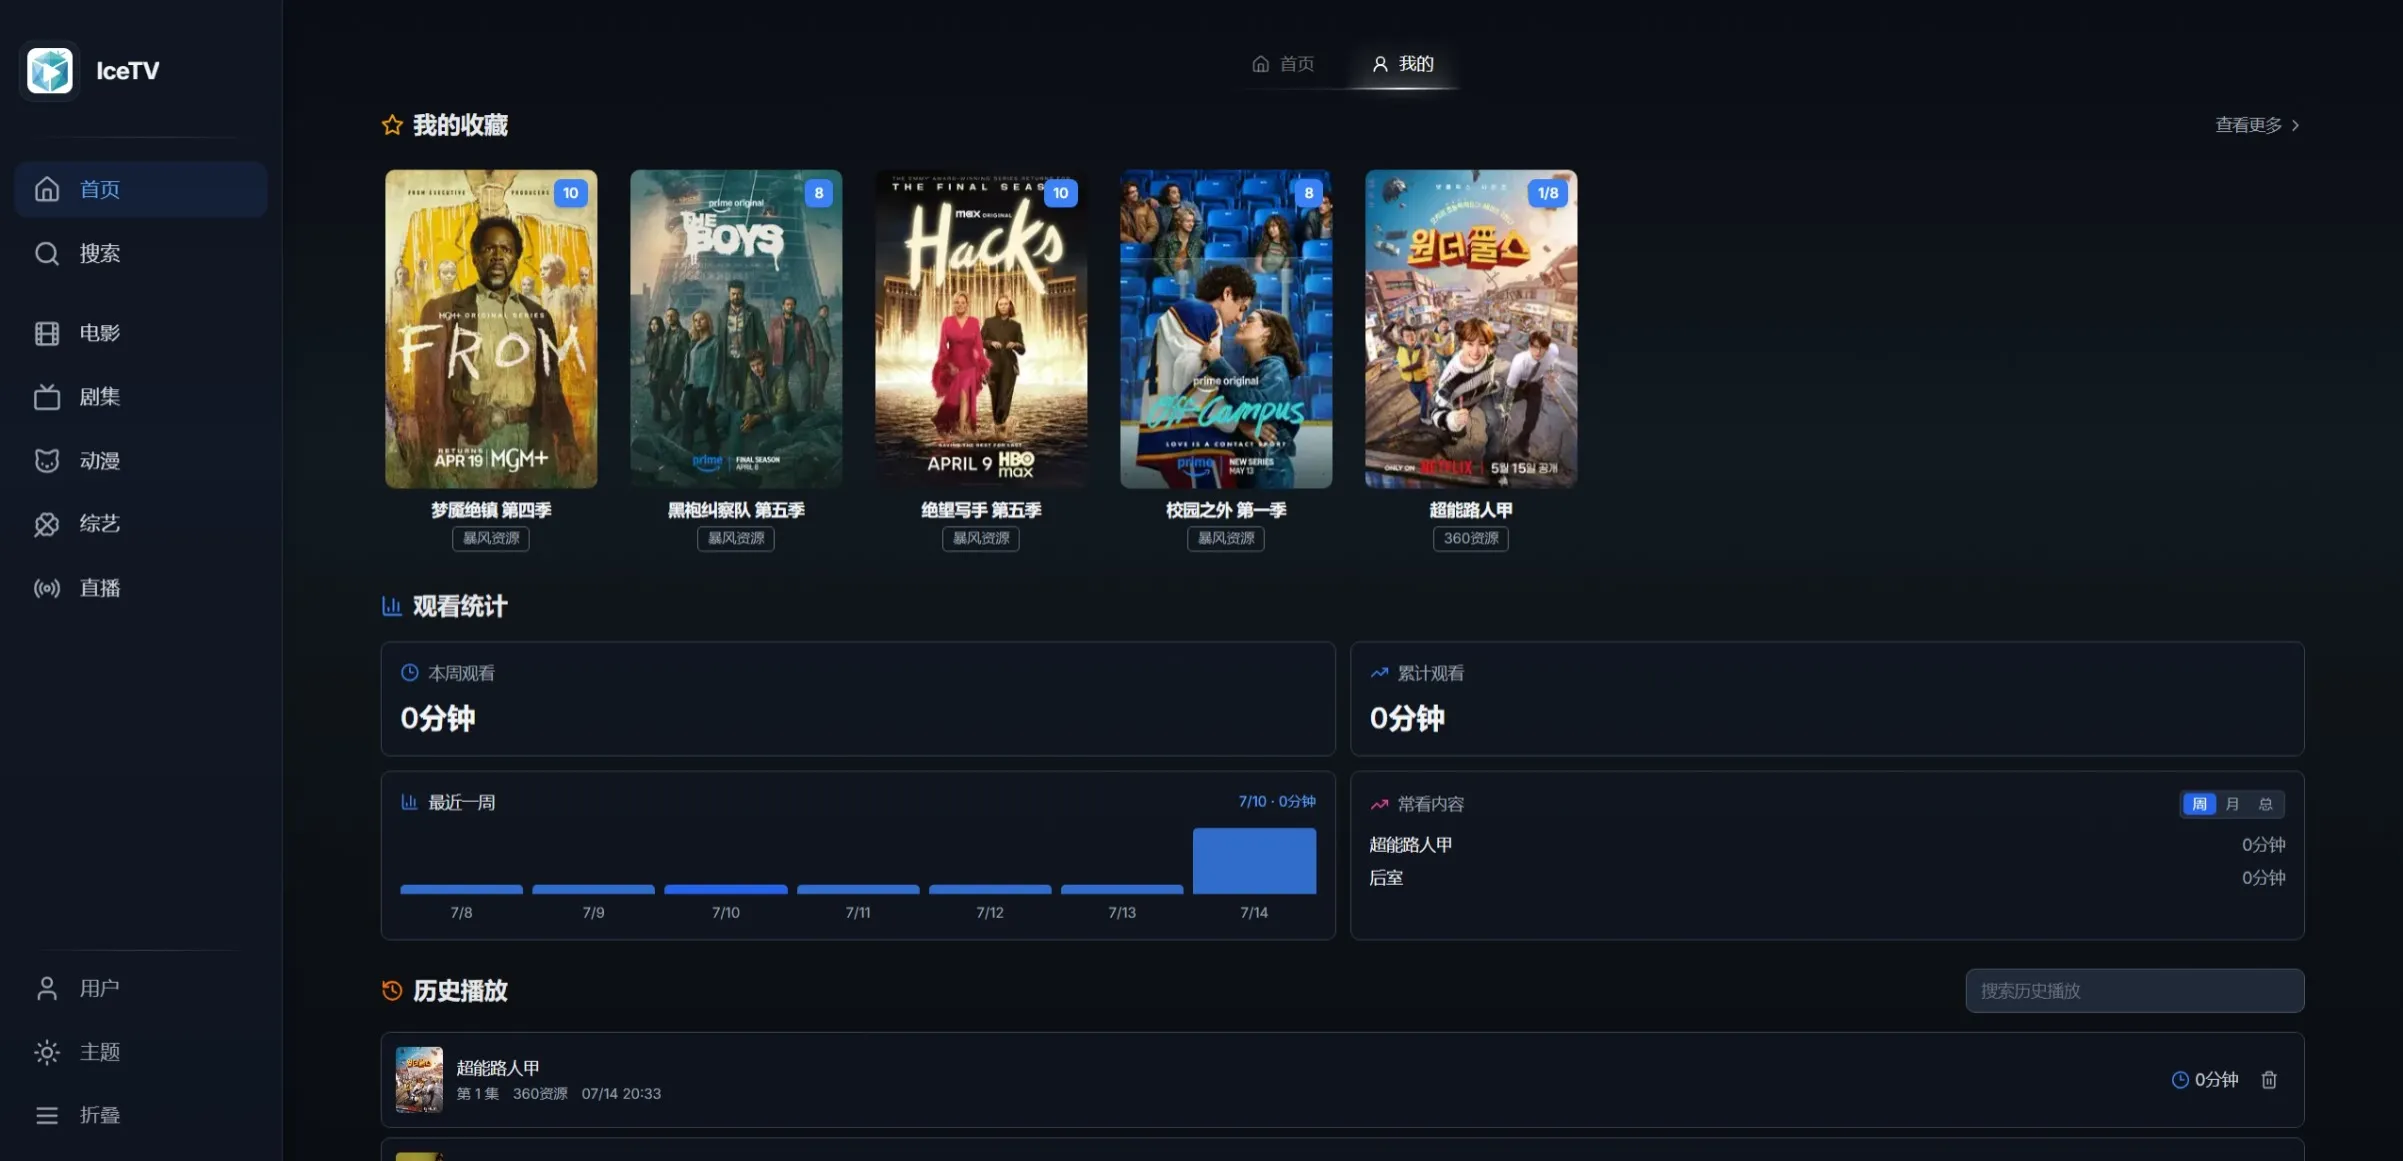
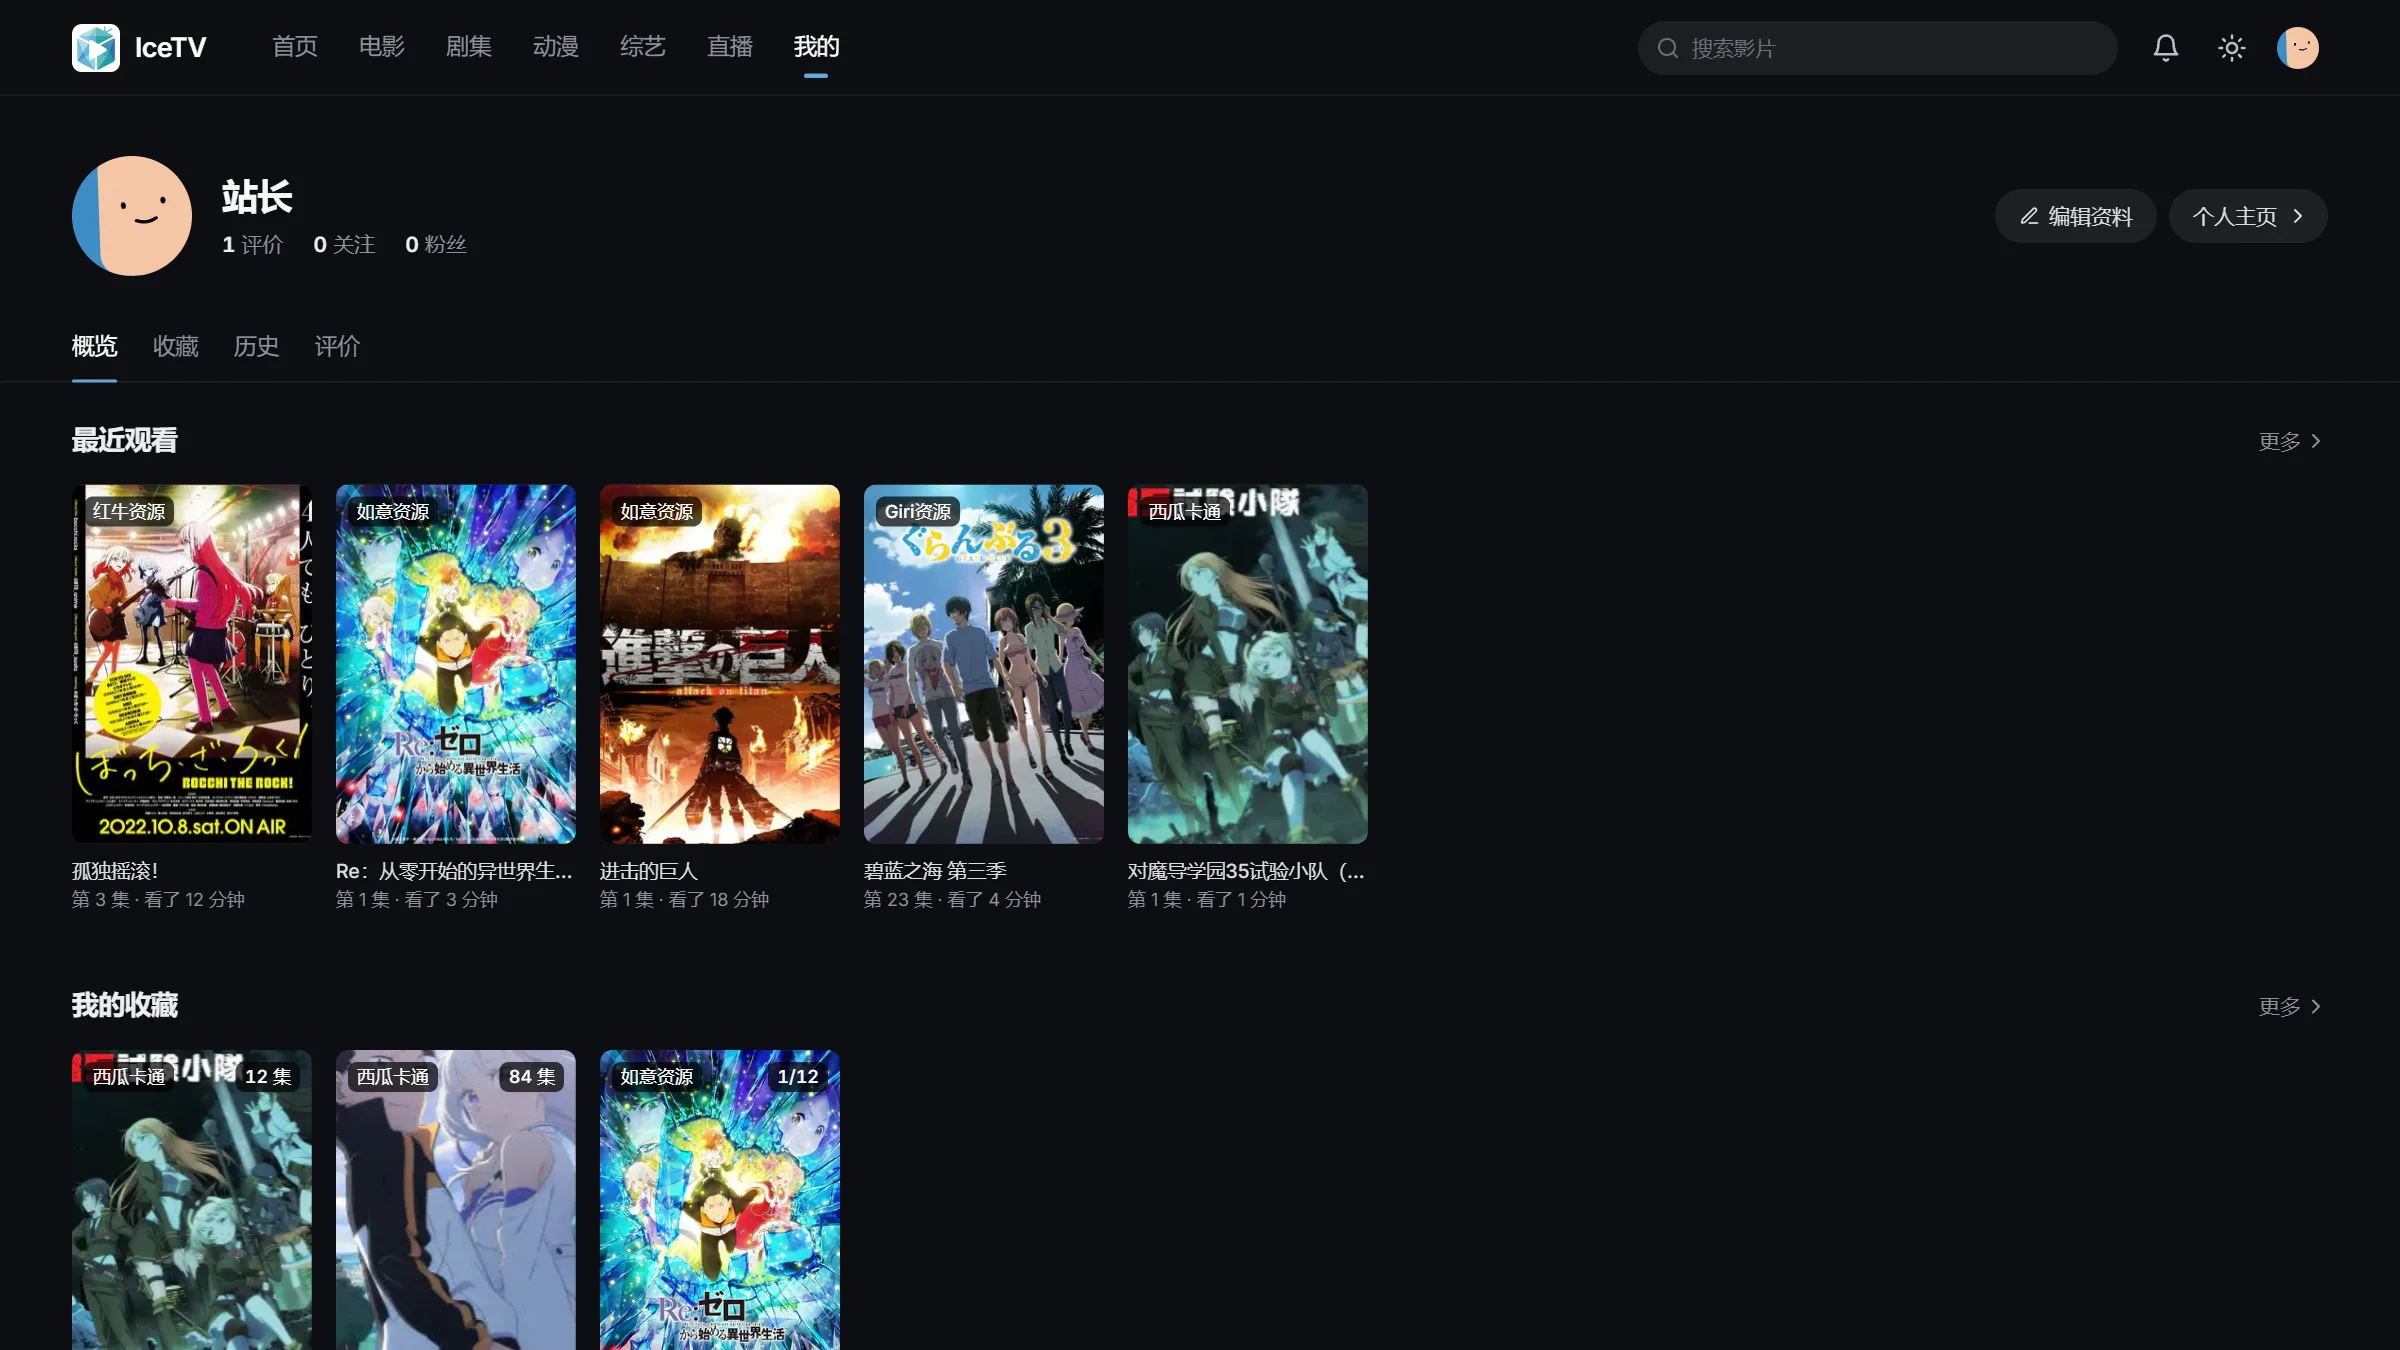
docs(readme): rewrite readme and refresh screenshots

diff --git a/README.md b/README.md
@@ -4,45 +4,43 @@
   <img src="public/logo.webp" alt="IceTV Logo" width="120">
 </div>
 
-> 影视聚合播放器。基于 Next.js 16 构建，支持多源搜索、在线播放、收藏、播放记录、弹幕、去广告。
+> 自托管的影视聚合播放器：多源搜索、在线点播与直播、弹幕、收藏与评价，多端同步观看进度。
 
 <div align="center">
 
 ![Next.js](https://img.shields.io/badge/Next.js-16-000?logo=nextdotjs)
+![React](https://img.shields.io/badge/React-19-149eca?logo=react)
 ![TailwindCSS](https://img.shields.io/badge/TailwindCSS-3-38bdf8?logo=tailwindcss)
-![TypeScript](https://img.shields.io/badge/TypeScript-5.x-3178c6?logo=typescript)
+![TypeScript](https://img.shields.io/badge/TypeScript-5-3178c6?logo=typescript)
 ![License](https://img.shields.io/badge/License-CC%20BY--NC--SA%204.0-green)
 ![Docker Ready](https://img.shields.io/badge/Docker-ready-blue?logo=docker)
 
 </div>
 
 > [!IMPORTANT]
-> 部署后为空壳项目，无内置播放源，需要在后台配置资源站。
+> 项目不内置任何播放源，部署后需在管理后台配置资源站。
 
 > [!WARNING]
 > 请勿在中国大陆社交平台宣传本项目，不授权任何"科技周刊/月刊"类项目收录。
 
-<details>
-  <summary>项目截图</summary>
-  <table>
-    <tr>
-      <th>桌面端</th>
-      <th>移动端</th>
-    </tr>
-    <tr>
-      <td><img src="public/screenshot-home-desktop.webp" alt="首页 - 桌面端" width="640"></td>
-      <td><img src="public/screenshot-home-mobile.webp" alt="首页 - 移动端" width="203"></td>
-    </tr>
-    <tr>
-      <td><img src="public/screenshot-play-desktop.webp" alt="点播页 - 桌面端" width="640"></td>
-      <td><img src="public/screenshot-play-mobile.webp" alt="点播页 - 移动端" width="203"></td>
-    </tr>
-    <tr>
-      <td><img src="public/screenshot-me-desktop.webp" alt="我的 - 桌面端" width="640"></td>
-      <td><img src="public/screenshot-me-mobile.webp" alt="我的 - 移动端" width="203"></td>
-    </tr>
-  </table>
-</details>
+<table>
+  <tr>
+    <th>桌面端</th>
+    <th>移动端</th>
+  </tr>
+  <tr>
+    <td><img src="public/screenshot-home-desktop.webp" alt="首页 - 桌面端" width="640"></td>
+    <td><img src="public/screenshot-home-mobile.webp" alt="首页 - 移动端" width="203"></td>
+  </tr>
+  <tr>
+    <td><img src="public/screenshot-play-desktop.webp" alt="点播页 - 桌面端" width="640"></td>
+    <td><img src="public/screenshot-play-mobile.webp" alt="点播页 - 移动端" width="203"></td>
+  </tr>
+  <tr>
+    <td><img src="public/screenshot-me-desktop.webp" alt="我的 - 桌面端" width="640"></td>
+    <td><img src="public/screenshot-me-mobile.webp" alt="我的 - 移动端" width="203"></td>
+  </tr>
+</table>
 
 ---
 
@@ -55,47 +53,62 @@
 - [环境变量](#环境变量)
 - [开发](#开发)
 - [客户端](#客户端)
-- [AndroidTV](#androidtv)
 - [安全与隐私](#安全与隐私)
 - [License](#license)
 - [致谢](#致谢)
 
 ## 功能特性
 
-- **多源聚合搜索** — 一次搜索返回全源结果
-- **流畅在线播放** — 集成 HLS.js & ArtPlayer
-- **弹幕支持** — 对接第三方弹幕源，支持偏移调整与本地记忆
-- **收藏 + 继续观看** — 多端同步进度
-- **多用户与邀请码注册** — 用户组按源分配权限
-- **PWA** — 离线缓存、安装到桌面
-- **响应式布局** — 桌面侧边栏 + 移动底部导航
-- **智能去广告** — 自动跳过视频中的切片广告（实验性）
+**发现与搜索**
+
+- 多源聚合搜索，一次返回全部资源站结果，自动记录源站健康状态
+- 首页轮播与豆瓣热门电影、剧集、综艺，Bangumi 新番放送表
+- 电影、剧集、动漫、综艺分类浏览与筛选，支持自定义分类
+
+**播放**
+
+- 基于 ArtPlayer 与 HLS.js 的点播，支持画质切换、自定义快捷键、下一集预加载
+- 自动换源：起播超时或解析失败时切换到可用源
+- 弹幕：对接第三方弹幕服务自动匹配，支持热力图、时间偏移与样式调节；可开启用户发送弹幕
+- 智能去广告：自动跳过视频中插入的切片广告（实验性）
+- 直播：导入 M3U 频道源，支持节目单
+
+**个人与社交**
+
+- 继续观看与播放历史，多端同步进度；观看时长统计
+- 收藏库与观看状态，作品评分与短评
+- 个人主页、关注与动态，消息中心推送站点公告与追更提醒
+
+**站点管理**
+
+- 多用户：邀请码注册、用户组按源分配权限、不活跃用户清理
+- 管理后台：资源站批量管理、直播源、配置订阅、运行参数、弹幕管理与缓存观测
+- PWA：可安装到桌面与手机主屏，桌面顶栏导航与移动端底部导航自适应
 
 ## 技术栈
 
 | 分类      | 主要依赖                                                                                              |
 | --------- | ----------------------------------------------------------------------------------------------------- |
-| 前端框架  | [Next.js 16](https://nextjs.org/) · App Router                                                        |
+| 前端框架  | [Next.js 16](https://nextjs.org/) App Router · React 19                                               |
 | UI & 样式 | [Tailwind CSS 3](https://tailwindcss.com/)                                                            |
 | 语言      | TypeScript 5                                                                                          |
 | 播放器    | [ArtPlayer](https://github.com/zhw2590582/ArtPlayer) · [HLS.js](https://github.com/video-dev/hls.js/) |
+| 数据存储  | SQLite（better-sqlite3）· MySQL                                                                       |
 | 代码质量  | ESLint · Prettier · Jest                                                                              |
 
 ## 部署
 
-| 方案                                                 | 适用范围                     |
+| 方案                                                 | 适用场景                     |
 | ---------------------------------------------------- | ---------------------------- |
 | [Docker + SQLite](docs/deployment.md#docker--sqlite) | 单机部署，数据库保存在数据卷 |
 | [Docker + MySQL](docs/deployment.md#docker--mysql)   | 多实例共用数据库             |
 | [Vercel + MySQL](docs/deployment.md#vercel--mysql)   | 云部署，依赖外部 MySQL       |
 
-弹幕服务可独立接入以上方案，见 [接入弹幕服务](docs/deployment.md#接入弹幕服务)。
+弹幕服务可独立接入以上任一方案，见 [接入弹幕服务](docs/deployment.md#接入弹幕服务)；升级前的备份与回退见 [升级与备份](docs/deployment.md#升级与备份)。
 
 ## 配置文件
 
-部署后在管理后台填写配置。
-
-示例：
+部署后在管理后台填写配置，也可通过配置订阅从远程 JSON 同步。
 
 ```json
 {
@@ -112,21 +125,26 @@
       "type": "movie",
       "query": "华语"
     }
-  ]
+  ],
+  "lives": {
+    "example": {
+      "name": "示例直播",
+      "url": "http://xxx.com/live.m3u"
+    }
+  }
 }
 ```
 
-- `cache_time`：缓存时间（秒）
-- `api_site`：资源站配置，支持苹果 CMS V10 API
-  - `key`：唯一标识
-  - `api`：JSON API 地址
-  - `name`：显示名称
-  - `detail`：（可选）详情页根 URL
-- `custom_category`：自定义分类，type 为 `movie` 或 `tv`
+| 字段              | 说明                                                                                                           |
+| ----------------- | -------------------------------------------------------------------------------------------------------------- |
+| `cache_time`      | 豆瓣等公开接口的缓存时间（秒）                                                                                 |
+| `api_site`        | 资源站，兼容苹果 CMS V10 API。键为唯一标识；`api` 为接口地址，`name` 为显示名称，`detail` 为可选的详情页根 URL |
+| `custom_category` | 自定义分类，`type` 取 `movie` 或 `tv`，`query` 为豆瓣检索关键词                                                |
+| `lives`           | 直播源。`url` 为 M3U 地址，`ua` 为可选请求 UA，`epg` 为可选节目单地址                                          |
 
 ## 环境变量
 
-变量与默认值以 [.env.example](.env.example) 为准；签名密钥、反代层数、内网弹幕等易错配置见 [环境变量边界](docs/deployment.md#环境变量边界)。
+变量与默认值以 [.env.example](.env.example) 为准。签名密钥、反代层数、内网弹幕等易错配置见 [环境变量边界](docs/deployment.md#环境变量边界)。
 
 ## 开发
 
@@ -136,26 +154,20 @@ cp .env.example .env
 pnpm dev
 ```
 
-改代码前看 [AGENTS.md](AGENTS.md)，其余文档见 [docs/](docs/README.md)。
-
-本地默认 Turbopack；遇兼容问题用 `pnpm dev:webpack`。验证范围按 [AGENTS.md](AGENTS.md#验证) 选择，不必每次编辑都全量跑。
+本地默认使用 Turbopack，遇到兼容问题改用 `pnpm dev:webpack`。改代码前先读 [AGENTS.md](AGENTS.md)，其余工程文档见 [docs/](docs/README.md)。
 
 ## 客户端
 
-配合 [Selene](https://github.com/MoonTechLab/Selene) 使用，数据同步。
-
-## AndroidTV
-
-配合 [OrionTV](https://github.com/zimplexing/OrionTV) 使用，播放记录同步。
+- [Selene](https://github.com/MoonTechLab/Selene)：配合使用，数据同步
+- [OrionTV](https://github.com/zimplexing/OrionTV)：Android TV 客户端，播放记录同步
 
 ## 安全与隐私
 
-**建议不开放公网注册**：
+**建议仅供个人或小范围使用，不开放公网注册：**
 
-1. 设置强密码：`ICETV_PASSWORD` 与 `AUTH_SECRET` 使用高熵随机值
-2. 注册默认关闭：需要时在后台开启并要求邀请码
-3. 反代后设置 `TRUSTED_PROXY_COUNT`
-4. 仅供个人使用
+1. `ICETV_PASSWORD` 与 `AUTH_SECRET` 使用高熵随机值
+2. 注册默认关闭，需要时在后台开启并要求邀请码
+3. 部署在反向代理之后时设置 `TRUSTED_PROXY_COUNT`
 
 **声明**：本项目仅供学习和个人使用，请勿用于商业或公开服务。公开分享导致的法律问题由用户自行承担，开发者不对用户使用行为承担法律责任。本项目不在中国大陆地区提供服务，如有向该地区提供服务属个人行为，产生的法律风险及责任由用户自行承担。
 
